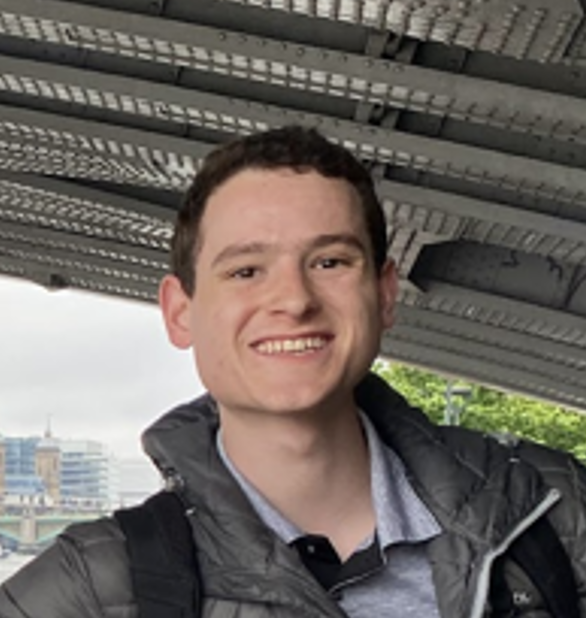
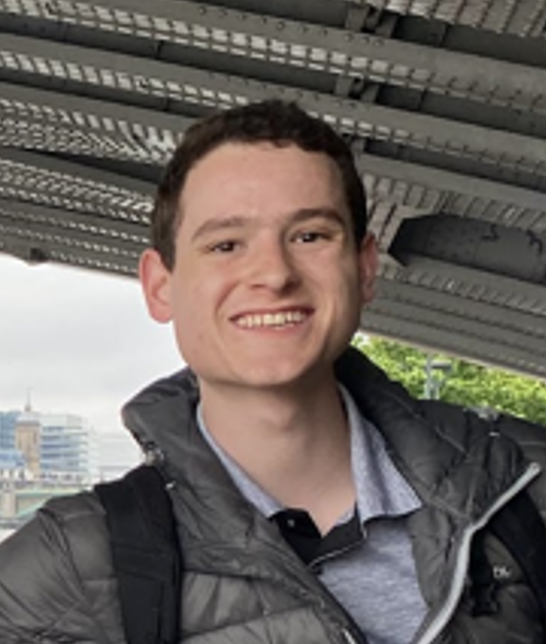
Improve font size scaling for mobile browsers
Also put a slightly new crop on Laker's image.

diff --git a/index.html b/index.html
@@ -50,6 +50,15 @@
             max-width: 60vw;
             margin: auto;
         }
+        .content p, .content ul {
+            font-size: 2vh;
+        }
+        .content p.donation-info {
+            font-size: 0.8vw;
+            text-align: center;
+            margin-top: 1vw;
+            color: #666;
+        }
         .highlight {
             font-weight: bold;
             color: #35a79c;
@@ -67,19 +76,31 @@
             text-decoration: none;
             margin: 2vw auto;
             border-radius: 1.0vw;
-            transition: background 0.3s ease;
+            transition: transform 0.3s cubic-bezier(0.175, 0.885, 0.32, 1.275), background 0.3s ease;
         }
         .donate-button:hover {
             background: #e68a00;
+            transform: scale(1.05);
         }
         .donation-info {
-            font-size: 0.8vw;
+            font-size: 0.8vh;
             text-align: center;
             margin-top: 1vw;
             color: #666;
         }
+        .content-link {
+            color: #35a79c;
+            text-decoration: none;
+            border-bottom: 0.1vw dotted #35a79c;
+            transition: color 0.3s ease, border-bottom 0.3s ease;
+        }
+        .content-link:hover {
+            color: #2c8a81;
+            border-bottom: 0.1vw solid #2c8a81;
+        }
         .ka-image {
-            max-width: 60%;
+            max-width: 70%;
+            min-width: 20vh;
             height: auto;
             display: block;
             margin: 2vw auto;
@@ -125,7 +146,7 @@
             font-size: 1vw;
             color: #666;
         }
-        @media (max-width: 600px) {
+        @media (max-width: 800px) {
             .container {
                 padding: 5vw;
                 max-width: 90vw;
@@ -137,20 +158,29 @@
                 padding-top: 0.2vw;
                 max-width: 80vw;
             }
+            .content p.donation-info {
+                font-size: 2.0vw;
+            }
             header h1 {
                 font-size: 6vw;
             }
             .logo {
                 max-width: 40vw;
+                margin-left: 1vw;
+                margin-right: 1vw;
             }
             .donate-button {
                 width: 40vw;
                 height: 10vw;
                 line-height: 10vw;
                 font-size: 4vw;
+                border-radius: 2.0vw;
             }
             .donation-info {
                 font-size: 2vw;
+            }
+            .ka-image {
+                min-width: 200px;
             }
             .team-member {
                 width: 40vw;
@@ -158,17 +188,6 @@
             .team-member-image {
                 width: 20vw;
                 height: 20vw;
-                overflow: hidden;
-                position: relative;
-            }
-            .team-member-image img {
-                position: absolute;
-                top: 50%;
-                left: 50%;
-                transform: translate(-50%, -50%);
-                width: 100%;
-                height: 100%;
-                object-fit: cover;
             }
             .team-member-name {
                 font-size: 3vw;
@@ -193,40 +212,41 @@
             <a href="https://foundation.kse.ua/en/projects/online-stem-lessons-from-khan-academy/?form=FUNFDCXKQPK" class="donate-button">DONATE NOW</a>
             <p class="donation-info">All donations go to KSE Foundation, a 501(c)(3) nonprofit in the United States and Ukraine, for the localization of Khan Academy.</p>
             <h2>Empowering Ukrainian Students Through Education</h2>
-            <p>For <span class="highlight">856 days</span>, Ukraine has been at war, leaving <span class="highlight">2 in 5 kids unable to attend school</span>. But what if we could change this story? What if instead of falling behind, kids could get ahead?</p>
-            <p>Meet Nazar Drugov, a Ukrainian high school student who defied the odds. He studied using free lessons on Khan Academy during blackouts and in shelters during bombardments, and he got into to Tufts University.</p>
-            <p>But there's a challenge: Khan Academy is in English, and only <span class="highlight">1 in 100 Ukrainians knows English</span>.</p>
+            <p>For <span class="highlight">856 days</span>, Ukraine has been at war, leaving <span class="highlight">2 in 5 kids unable to attend school</span>.</p>
+            <p>What if we flip the story? What if instead of falling behind, kids get ahead?</p>
+            <p>Meet Nazar Drugov, a Ukrainian high school student who defied the odds. He studied using free lessons on Khan Academy during blackouts and in shelters during bombardments, and he got into Tufts University.</p>
+            <p>Just one problem: Khan Academy is in English, and only <span class="highlight">1 in 100 Ukrainians knows English</span>.</p>
             <h2>Our Mission</h2>
             <p>We're on a mission to translate and localize Khan Academy content into Ukrainian.</p>
             <ul>
-                <li>We've already translated algebra basics into Ukrainian.</li>
+                <li>We've already translated <a href="https://uk.khanacademy.org/math/algebra-basics" class="content-link">algebra basics</a> into Ukrainian.</li>
                 <li>Our next goal is to translate arithmetic and precalculus.</li>
                 <li>We're collaborating with schools to reach every student in Ukraine.</li>
             </ul>
             <p>Let's make STEM education accessible to <span class="highlight">all 4 million students in Ukraine</span>.</p>
             <a href="https://foundation.kse.ua/en/projects/online-stem-lessons-from-khan-academy/?form=FUNFDCXKQPK" class="donate-button">DONATE NOW</a>
         </div>
-        <p style="text-align: center; font-size: 0.9vw;">Contact: Nazar Drugov (nazar.drugov@tufts.edu) | Laker Newhouse (lakern@mit.edu)</p>
+        <p style="text-align: center; font-size: 2.0vh;">Contact: Nazar Drugov (nazar.drugov@tufts.edu) | Laker Newhouse (lakern@mit.edu)</p>
         <div class="team-section">
             <h2>Team</h2>
             <div class="team-members">
                 <div class="team-member">
-                    <div class="team-member-image"><img src="images/Nazar.jpg"</img></div>
+                    <div class="team-member-image"><img src="images/Nazar.jpg" alt="Nazar Drugov"></div>
                     <div class="team-member-name">Nazar Drugov</div>
                     <div class="team-member-title">Founder (Tufts '28)</div>
                 </div>
                 <div class="team-member">
-                    <div class="team-member-image"><img src="images/Laker.png"</img></div>
+                    <div class="team-member-image"><img src="images/Laker.png" alt="Laker Newhouse"></div>
                     <div class="team-member-name">Laker Newhouse</div>
                     <div class="team-member-title">Founder (MIT '25)</div>
                 </div>
                 <div class="team-member">
-                    <div class="team-member-image"><img src="images/Tymofiy.jpg"></img></div>
+                    <div class="team-member-image"><img src="images/Tymofiy.jpg" alt="Tymofiy Mylovanov"></div>
                     <div class="team-member-name">Tymofiy Mylovanov</div>
                     <div class="team-member-title">President of Kyiv School of Economics</div>
                 </div>
                 <div class="team-member">
-                    <div class="team-member-image"><img src="images/Taras.png"></img></div>
+                    <div class="team-member-image"><img src="images/Taras.png" alt="Taras Pavlov"></div>
                     <div class="team-member-name">Taras Pavlov</div>
                     <div class="team-member-title">Lead Translator and Curriculum Expert</div>
                 </div>
